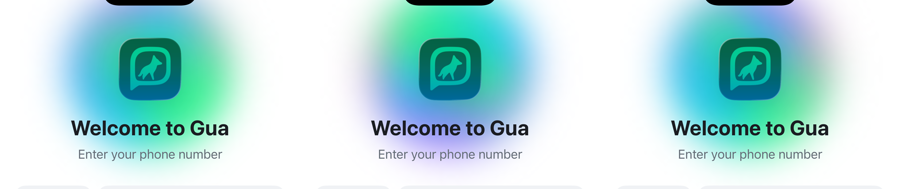
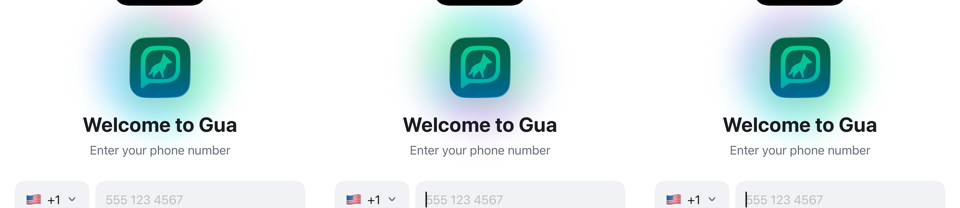
Welcome aurora: smaller, softer, livelier (review feedback)
- Halo shrunk from 220 to 168pt so it hugs the logo instead of dominating.
- Palette softened toward pastel (~38% toward white) + overall opacity 0.7,
  so it reads as a gentle tint rather than saturated neon.
- Motion decoupled and sped up: ~6s orbit churn (was ~18s, which looked static)
  plus a calmer ~12s hue drift; interior wobble amplitude nudged up.

Refreshed the screenshots/GIF to the tuned version (captured on iOS 26.5).

diff --git a/ElementX/Sources/Gua/Common/GuaLogoAura.swift b/ElementX/Sources/Gua/Common/GuaLogoAura.swift
@@ -56,6 +56,8 @@ struct GuaAuroraGlow: View {
             // Soft round halo so colour bleeds well past the logo's edges as a glow.
             .clipShape(Circle())
             .blur(radius: dimension * 0.12)
+            // Keep the glow gentle — a soft tint, not a saturated ring.
+            .opacity(0.7)
         }
     }
 }
@@ -70,20 +72,22 @@ private struct AuraCanvas: View {
     let dimension: CGFloat
 
     var body: some View {
-        // Slow phase so a full colour cycle takes ~18s — premium, not frantic.
+        // Two decoupled clocks: a brisk ~6s orbit so the halo visibly churns frame-to-frame,
+        // and a calmer ~12s hue drift so the colour change stays gentle rather than strobing.
         let t = date.timeIntervalSinceReferenceDate
-        let phase = t * (2 * .pi / 18)
+        let orbitPhase = t * (2 * .pi / 6)
+        let huePhase = t * (2 * .pi / 12)
 
         if #available(iOS 18.0, *) {
             MeshGradient(width: 4,
                          height: 4,
-                         points: AuraPalette.meshPoints(phase: phase),
-                         colors: AuraPalette.meshColors(phase: phase),
+                         points: AuraPalette.meshPoints(phase: orbitPhase),
+                         colors: AuraPalette.meshColors(phase: huePhase),
                          smoothsColors: true)
         } else {
             // iOS 17 fallback: still TimelineView-driven (no repeatForever), so it animates
             // reliably too. Asymmetric radial blobs that drift and breathe out of phase.
-            AuraBlobsFallback(phase: phase, dimension: dimension)
+            AuraBlobsFallback(phase: orbitPhase, dimension: dimension)
         }
     }
 }
@@ -91,12 +95,13 @@ private struct AuraCanvas: View {
 // MARK: - Palette & mesh maths
 
 private enum AuraPalette {
-    // Lead with Gua green, then cyan / blue / purple / pink accents. Soft & premium.
-    static let green = Color(red: 0.20, green: 0.95, blue: 0.55)
-    static let cyan = Color(red: 0.10, green: 0.80, blue: 0.90)
-    static let blue = Color(red: 0.30, green: 0.55, blue: 1.00)
-    static let purple = Color(red: 0.62, green: 0.40, blue: 1.00)
-    static let pink = Color(red: 1.00, green: 0.48, blue: 0.74)
+    // Lead with Gua green, then cyan / blue / purple / pink accents — softened toward pastel
+    // (mixed ~38% toward white) so the halo reads as a gentle tint rather than saturated neon.
+    static let green = Color(red: 0.50, green: 0.97, blue: 0.72)
+    static let cyan = Color(red: 0.44, green: 0.88, blue: 0.94)
+    static let blue = Color(red: 0.57, green: 0.72, blue: 1.00)
+    static let purple = Color(red: 0.76, green: 0.63, blue: 1.00)
+    static let pink = Color(red: 1.00, green: 0.68, blue: 0.84)
 
     /// Ordered ring the corner/edge vertices travel through, so hue clearly *travels* around the
     /// halo rather than just rotating a symmetric wheel.
@@ -132,7 +137,7 @@ private enum AuraPalette {
             let dy = Float(cos(phase * 0.85 + seed * 1.7)) * amp
             return SIMD2<Float>(base.x + dx, base.y + dy)
         }
-        let a: Float = 0.16 // interior wobble amplitude
+        let a: Float = 0.19 // interior wobble amplitude (a touch larger for clearer motion)
 
         return [
             // row 0 (top edge, pinned)

diff --git a/ElementX/Sources/Gua/Screens/PhoneEntryScreen/View/PhoneEntryScreen.swift b/ElementX/Sources/Gua/Screens/PhoneEntryScreen/View/PhoneEntryScreen.swift
@@ -52,7 +52,7 @@ struct PhoneEntryScreen: View {
                 // reads as a halo; drawn in a background so it never affects the header's layout.
                 .background {
                     GuaAuroraGlow(animated: !reduceMotion)
-                        .frame(width: 220, height: 220)
+                        .frame(width: 168, height: 168)
                         .allowsHitTesting(false)
                 }
                 .accessibilityHidden(true)
